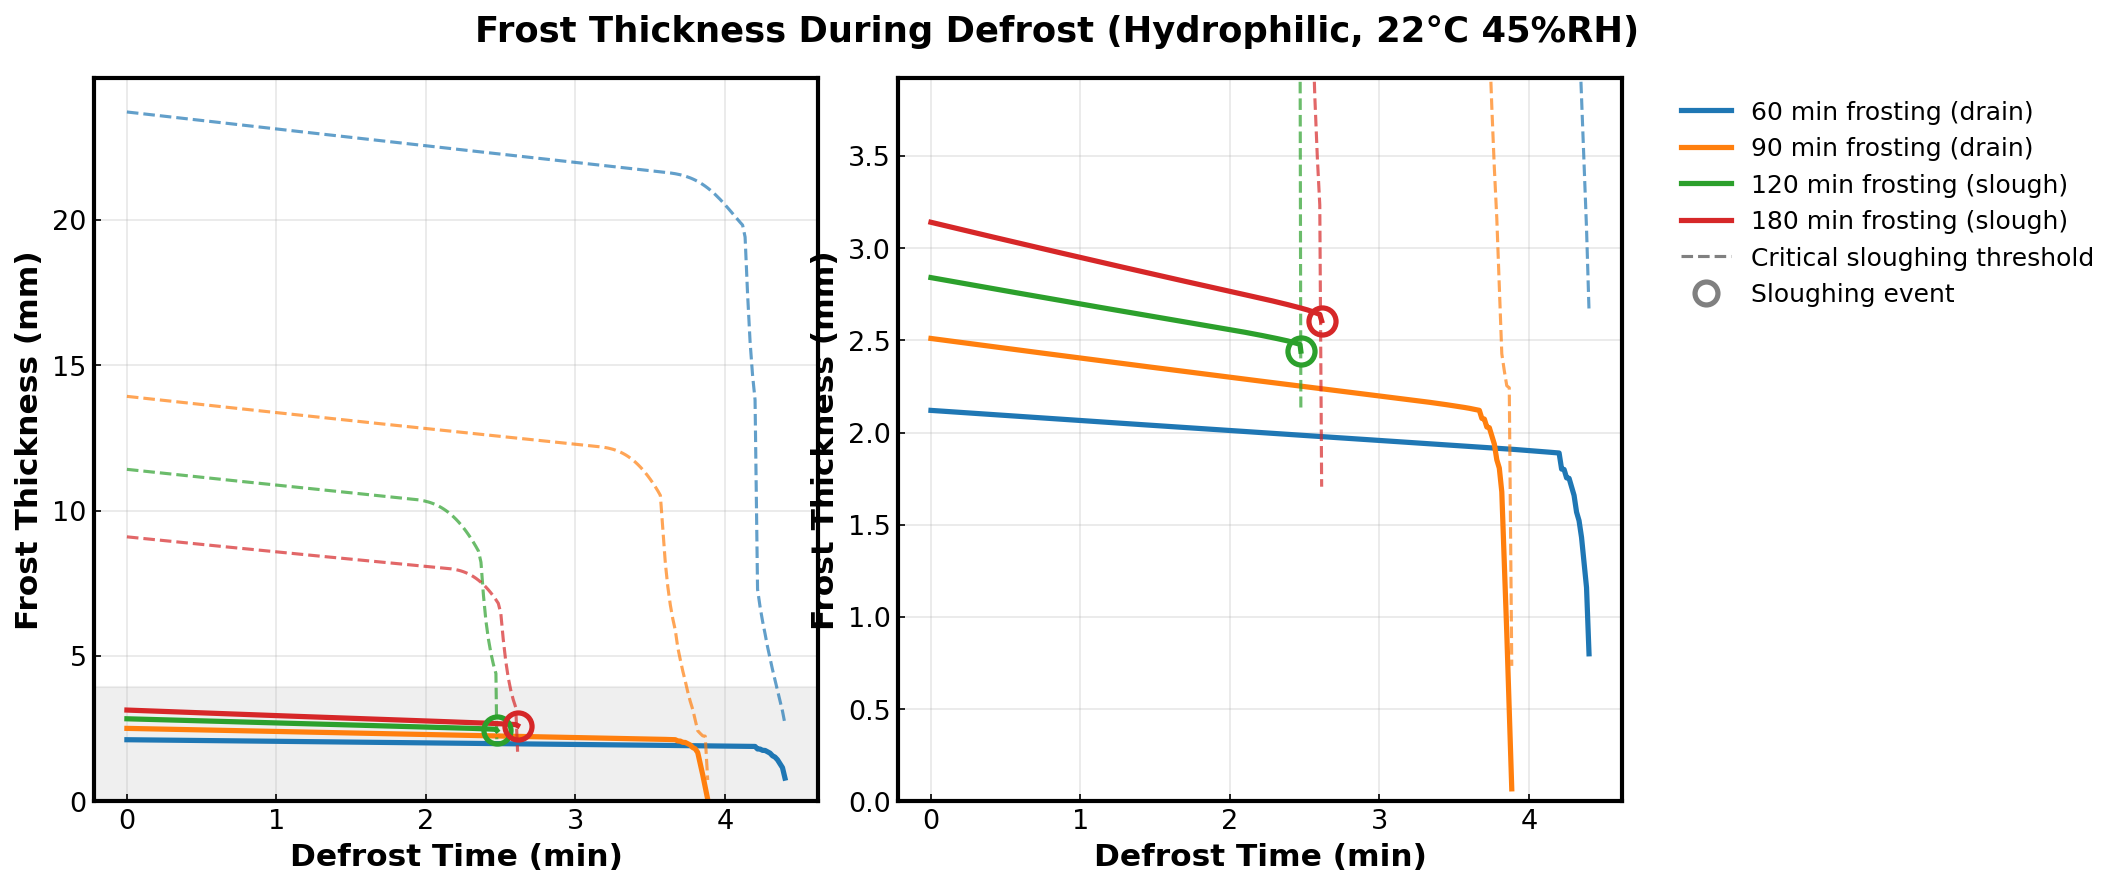
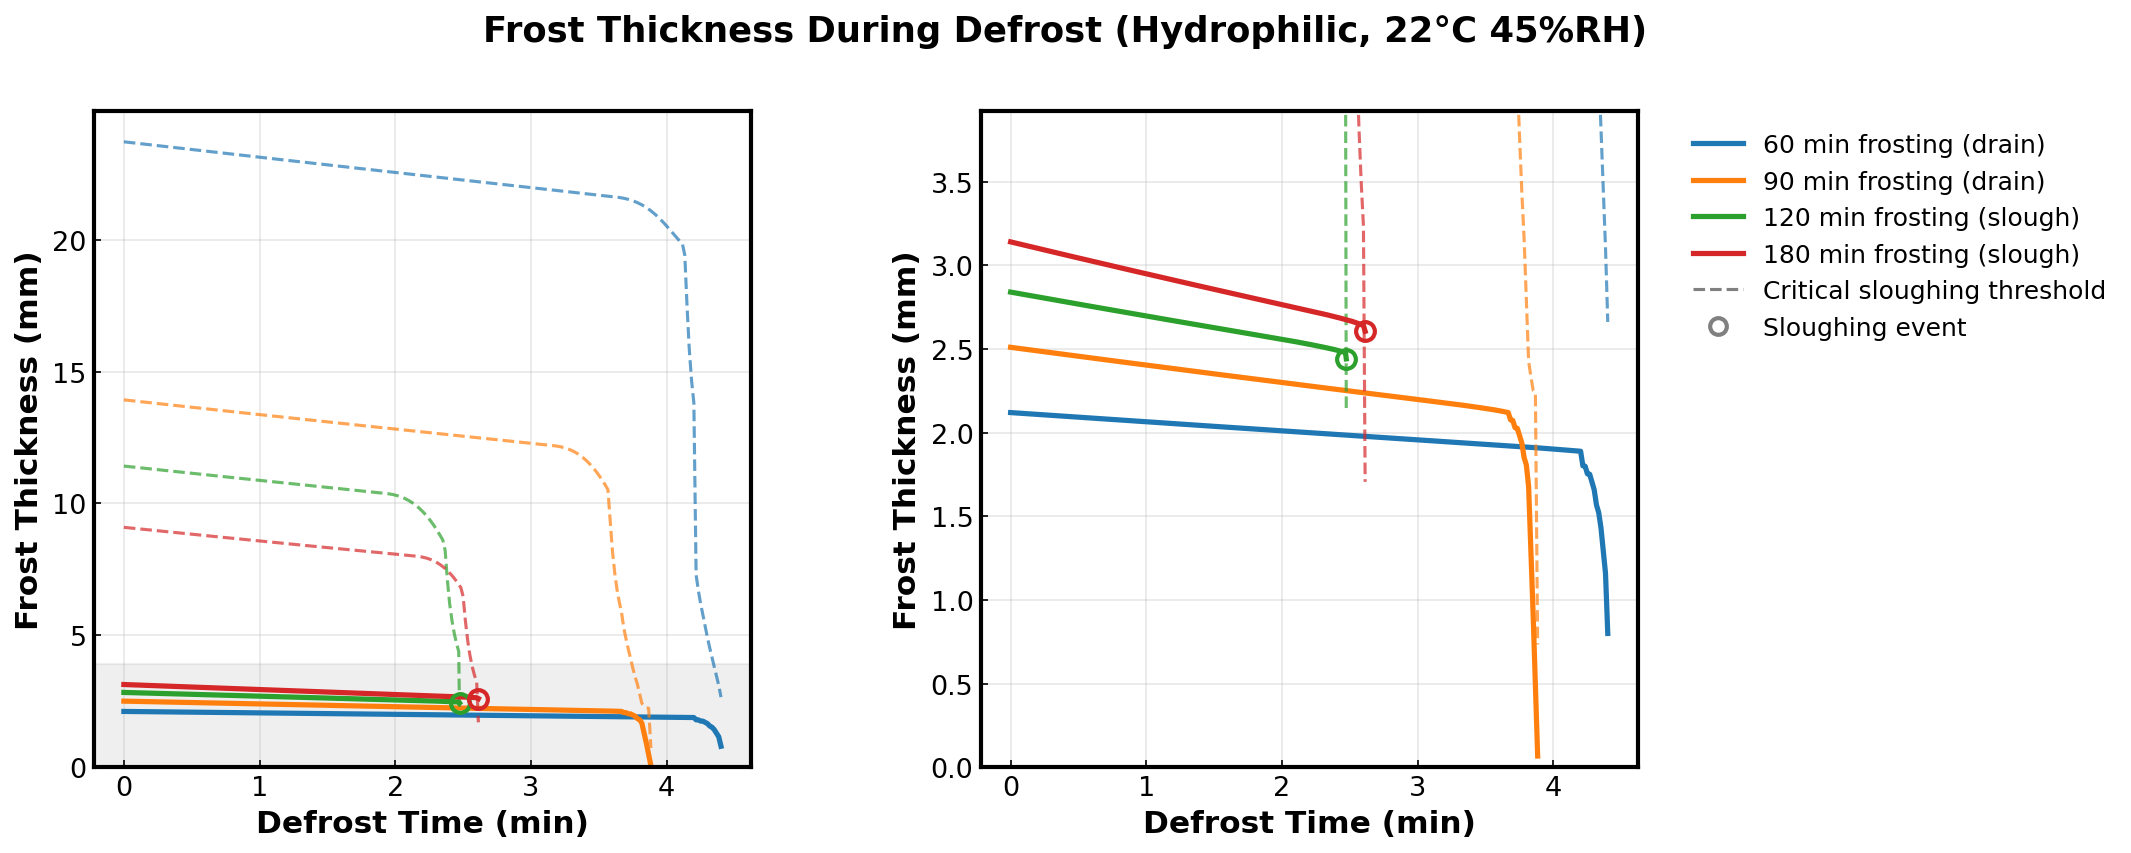
Shrink sloughing markers and add spacing between the two panels

diff --git a/plot_defrost_thickness_comparison.py b/plot_defrost_thickness_comparison.py
@@ -148,9 +148,9 @@ def plot_defrost_thickness_comparison(cases=None, output_dir='figure', figsize=(
             # Mark the sloughing event (hollow circle) where thickness
             # reaches the threshold
             if hist['sloughing']:
-                ax.plot(time_min[-1], h_total_mm[-1], marker='o', markersize=13,
+                ax.plot(time_min[-1], h_total_mm[-1], marker='o', markersize=9,
                         markerfacecolor='none', markeredgecolor=color,
-                        markeredgewidth=2.5, linestyle='None', zorder=5)
+                        markeredgewidth=2, linestyle='None', zorder=5)
 
         print(f"  {case}: initial {h_total_mm[0]:.2f} mm, "
               f"{'sloughs at ' + format(time_min[-1], '.2f') + ' min' if hist['sloughing'] else 'drains'}")
@@ -179,14 +179,17 @@ def plot_defrost_thickness_comparison(cases=None, output_dir='figure', figsize=(
     handles, labels = ax1.get_legend_handles_labels()
     handles.append(Line2D([0], [0], color='gray', linewidth=1.5, linestyle='--'))
     labels.append('Critical sloughing threshold')
-    handles.append(Line2D([0], [0], marker='o', markersize=11,
+    handles.append(Line2D([0], [0], marker='o', markersize=8,
                           markerfacecolor='none', markeredgecolor='gray',
-                          markeredgewidth=2.5, linestyle='None'))
+                          markeredgewidth=2, linestyle='None'))
     labels.append('Sloughing event')
     ax2.legend(handles, labels, bbox_to_anchor=(1.05, 1), loc='upper left',
                fontsize=12, frameon=False)
 
     plt.tight_layout()
+
+    # Add horizontal space so the right panel's y-label clears the left panel
+    fig.subplots_adjust(wspace=0.35)
 
     output_path = Path(output_dir)
     output_path.mkdir(exist_ok=True)
